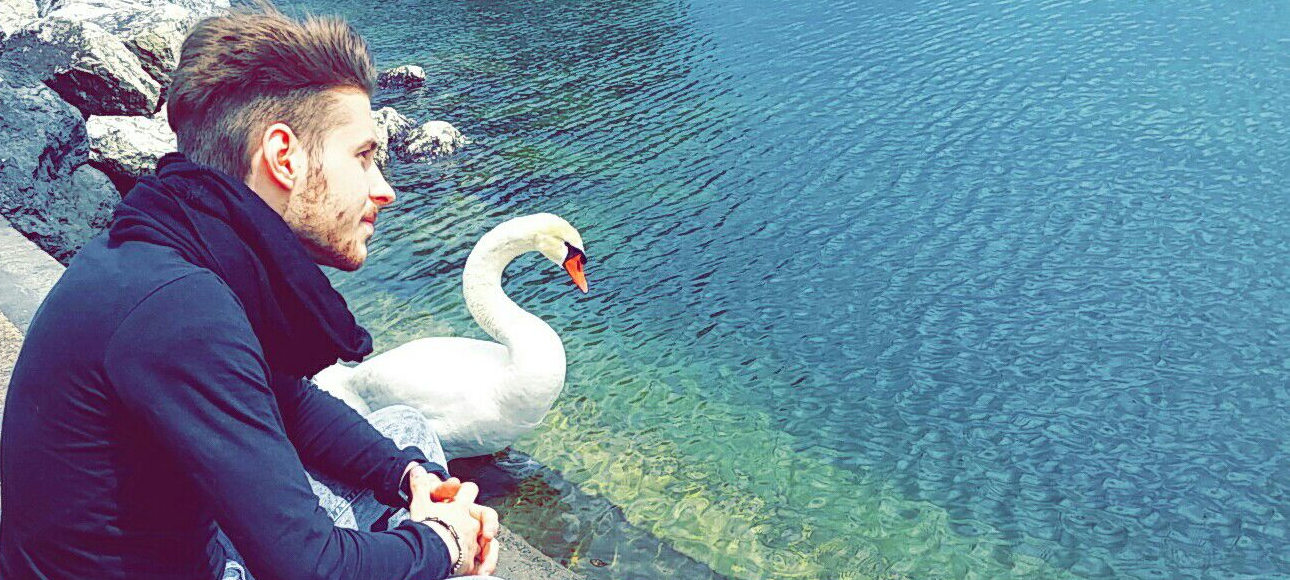
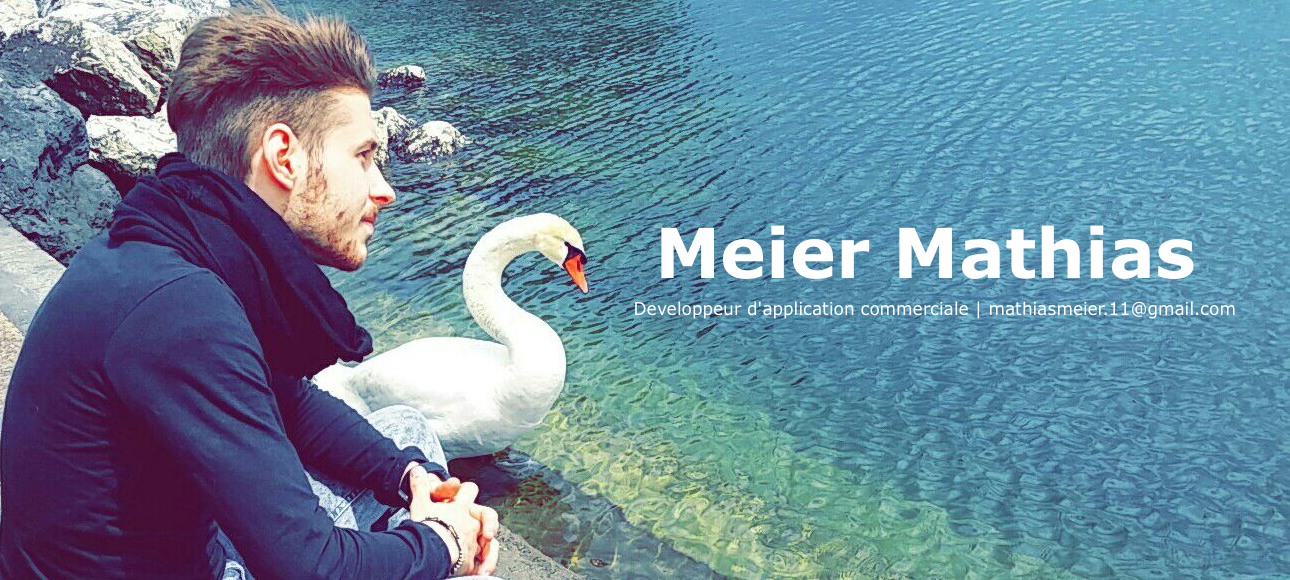
Changed header + navabar

Changed region(s): [[0.4961, 0.3724, 0.9302, 0.4966], [0.4961, 0.5276, 0.9612, 0.5586]]

diff --git a/app/index.html b/app/index.html
@@ -52,7 +52,7 @@
           <!-- Barre de navigation -->
           <div class="collapse navbar-collapse" id="navbar">
             <ul class="nav navbar-nav">
-              <li><a class="smoothScroll" data-toggle="collapse" data-target=".navbar-collapse" href="#headerwrap">Accueil</a></li>
+              <li><a class="smoothScroll" data-toggle="collapse" data-target=".navbar-collapse" href="#header">Accueil</a></li>
               <li><a class="smoothScroll" data-toggle="collapse" data-target=".navbar-collapse" href="#about">A propos</a></li>
               <li><a class="smoothScroll" data-toggle="collapse" data-target=".navbar-collapse" href="#job">Travail</a></li>
               <li><a class="smoothScroll" data-toggle="collapse" data-target=".navbar-collapse" href="#school">Scolaire</a></li>
@@ -72,21 +72,17 @@
   </div>
   <!--/ #topbar-inner -->
   </div>
+
+  <div id="header">
   <!--/ #section-topbar -->
-  <div id="headerwrap" class="row centered img-responsive">
-    <div class="container">
-      <div class="row centered">
-        <div class="col-lg-12 text-right">
-          <h1>Meier Mathias</h1>
-          <h3>Developpeur d'application commerciale | mathiasmeier.11@gmail.com</h3>
-        </div>
-        <!--/.col-lg-12 -->
-      </div>
-      <!--/.row -->
+   <div class="container">
+    <div class="row">
+        <img class="img-thumbnail" id="headerImg" src="images/header-bg.png" alt="Mathias Meier" />
     </div>
-    <!--/.container -->
+    <!--/.row -->
   </div>
-  <!--/.#headerwrap -->
+</div>
+<!--/.container -->
   <section id="about"></section>
   <div id="intro">
     <div class="container">
@@ -101,7 +97,7 @@
         </div>
         <div class="col-lg-3">
           <p><a href="images/CV_Meier_Mathias_Bachelor.pdf" download="CV_MATHIAS_MEIER"><i class="icon-file"></i></a>
-            <sm>Téléchargement PDF</sm>
+            <a href="images/CV_Meier_Mathias_Bachelor.pdf" download="CV_MATHIAS_MEIER"><sm>Téléchargement PDF</sm></a>
           </p>
         </div>
       </div>

diff --git a/app/scripts/bootstrap.js b/app/scripts/bootstrap.js
@@ -572,7 +572,7 @@ if (!jQuery) { throw new Error('Bootstrap requires jQuery') }
 
     this.$element
       .one($.support.transition.end, $.proxy(complete, this))
-      .emulateTransitionEnd(350)
+      .emulateTransitionEnd(500)
       [dimension](this.$element[0][scrollSize])
   }
 
@@ -609,7 +609,7 @@ if (!jQuery) { throw new Error('Bootstrap requires jQuery') }
     this.$element
       [dimension](0)
       .one($.support.transition.end, $.proxy(complete, this))
-      .emulateTransitionEnd(350)
+      .emulateTransitionEnd(500)
   }
 
   Collapse.prototype.toggle = function () {

diff --git a/app/styles/bootstrap.css b/app/styles/bootstrap.css
@@ -4079,6 +4079,9 @@ textarea.input-group-sm > .input-group-btn > .btn {
   border-top: 1px solid transparent;
   box-shadow: inset 0 1px 0 rgba(255, 255, 255, 0.1);
   -webkit-overflow-scrolling: touch;
+  font-family: "Helvetica Neue", Helvetica, Arial, sans-serif;
+  font-size: 13px;
+  font-weight: bold;
 }
 
 .navbar-collapse:before,

diff --git a/app/styles/main.css b/app/styles/main.css
@@ -281,3 +281,15 @@ a:after {
 sm {
 	font-size: 12px;
 }
+
+#header {
+	background: #2C3E50;
+}
+
+#header {
+	background: #2C3E50;
+}
+
+#headerImg {
+	margin-top: 7%;
+}
